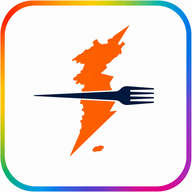
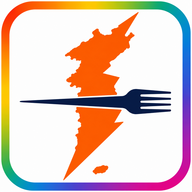
운영: 앱 아이콘 테두리 존재감 강화 (#61)
Preview에서 검증된 두꺼운 무지개 테두리 아이콘을 일반용·maskable 규격에 반영하고 아이콘 캐시를 갱신합니다.

Changed region(s): [[0.0, 0.0, 1.0, 1.0], [0.4688, 0.8438, 0.5625, 0.9062], [0.5938, 0.2812, 0.625, 0.3125]]

diff --git a/sw.js b/sw.js
@@ -1,6 +1,6 @@
 'use strict';
 
-const CACHE_NAME = 'daedong-yeosu-app-shell-v6-official-app-icon';
+const CACHE_NAME = 'daedong-yeosu-app-shell-v7-bold-app-icon';
 const APP_SHELL = [
   '/',
   '/manifest.webmanifest',
